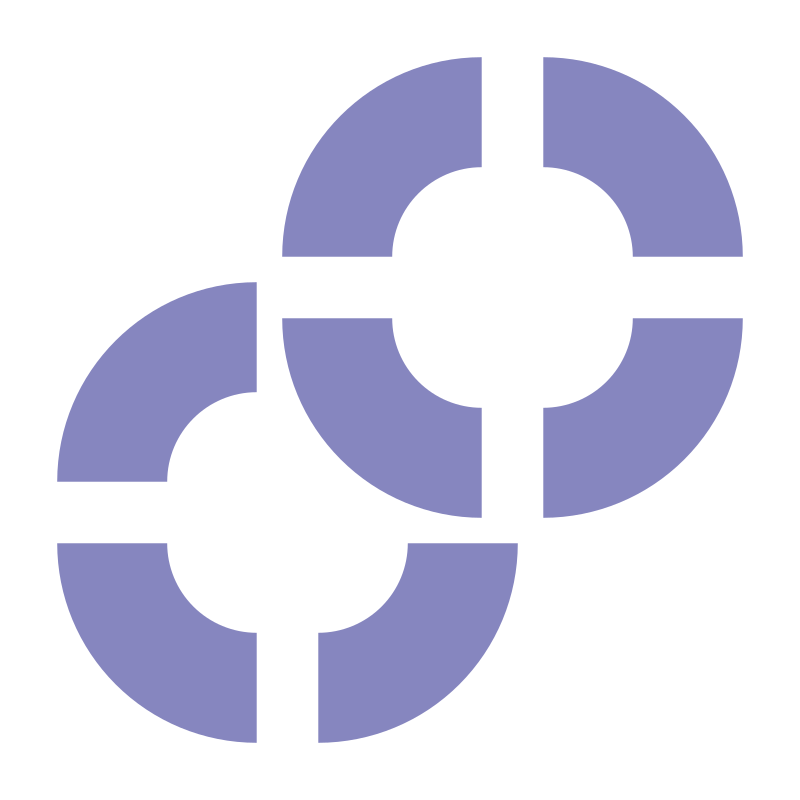
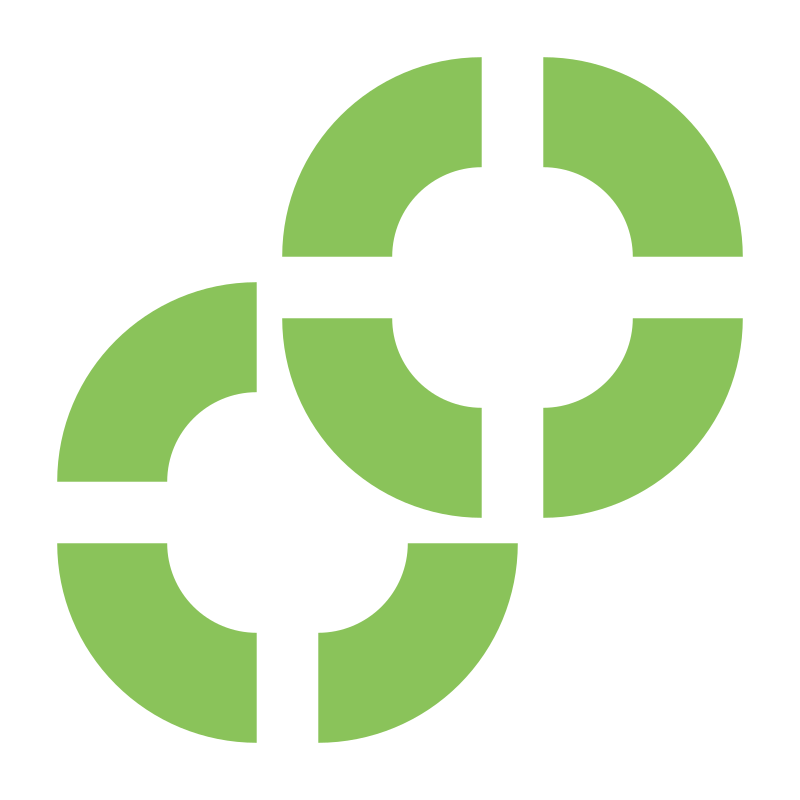
green

diff --git a/react/src/mapper/components/InsetMap.tsx b/react/src/mapper/components/InsetMap.tsx
@@ -236,7 +236,7 @@ function EditInsetsHandles(props: {
             )}
             {props.add && (
                 <div data-test="add" style={{ ...handleStyle(25), margin: 'auto', left: `calc(50% - 12.5px)`, textAlign: 'center', top: -insetBorderWidth, cursor: 'default' }} onClick={props.add}>
-                    <img src="/add-small.png" alt="Add" style={{ width: '100%', height: '100%' }} />
+                    <img src="/add-green-small.png" alt="Add" style={{ width: '100%', height: '100%' }} />
                 </div>
             )}
         </>

diff --git a/urbanstats/website_data/build.py b/urbanstats/website_data/build.py
@@ -317,7 +317,7 @@ def build_urbanstats(
     shutil.copy("icons/main/screenshot.png", f"{site_folder}/")
     shutil.copy("icons/main/download.png", f"{site_folder}/")
     shutil.copy("icons/main/add.png", f"{site_folder}/")
-    shutil.copy("icons/main/add-small.png", f"{site_folder}/")
+    shutil.copy("icons/main/add-green-small.png", f"{site_folder}/")
     shutil.copy("icons/main/link-preview.png", f"{site_folder}/")
     shutil.copy("icons/main/juxtastat-link-preview.png", f"{site_folder}/")
     shutil.copy("icons/main/syau-link-preview.png", f"{site_folder}/")
